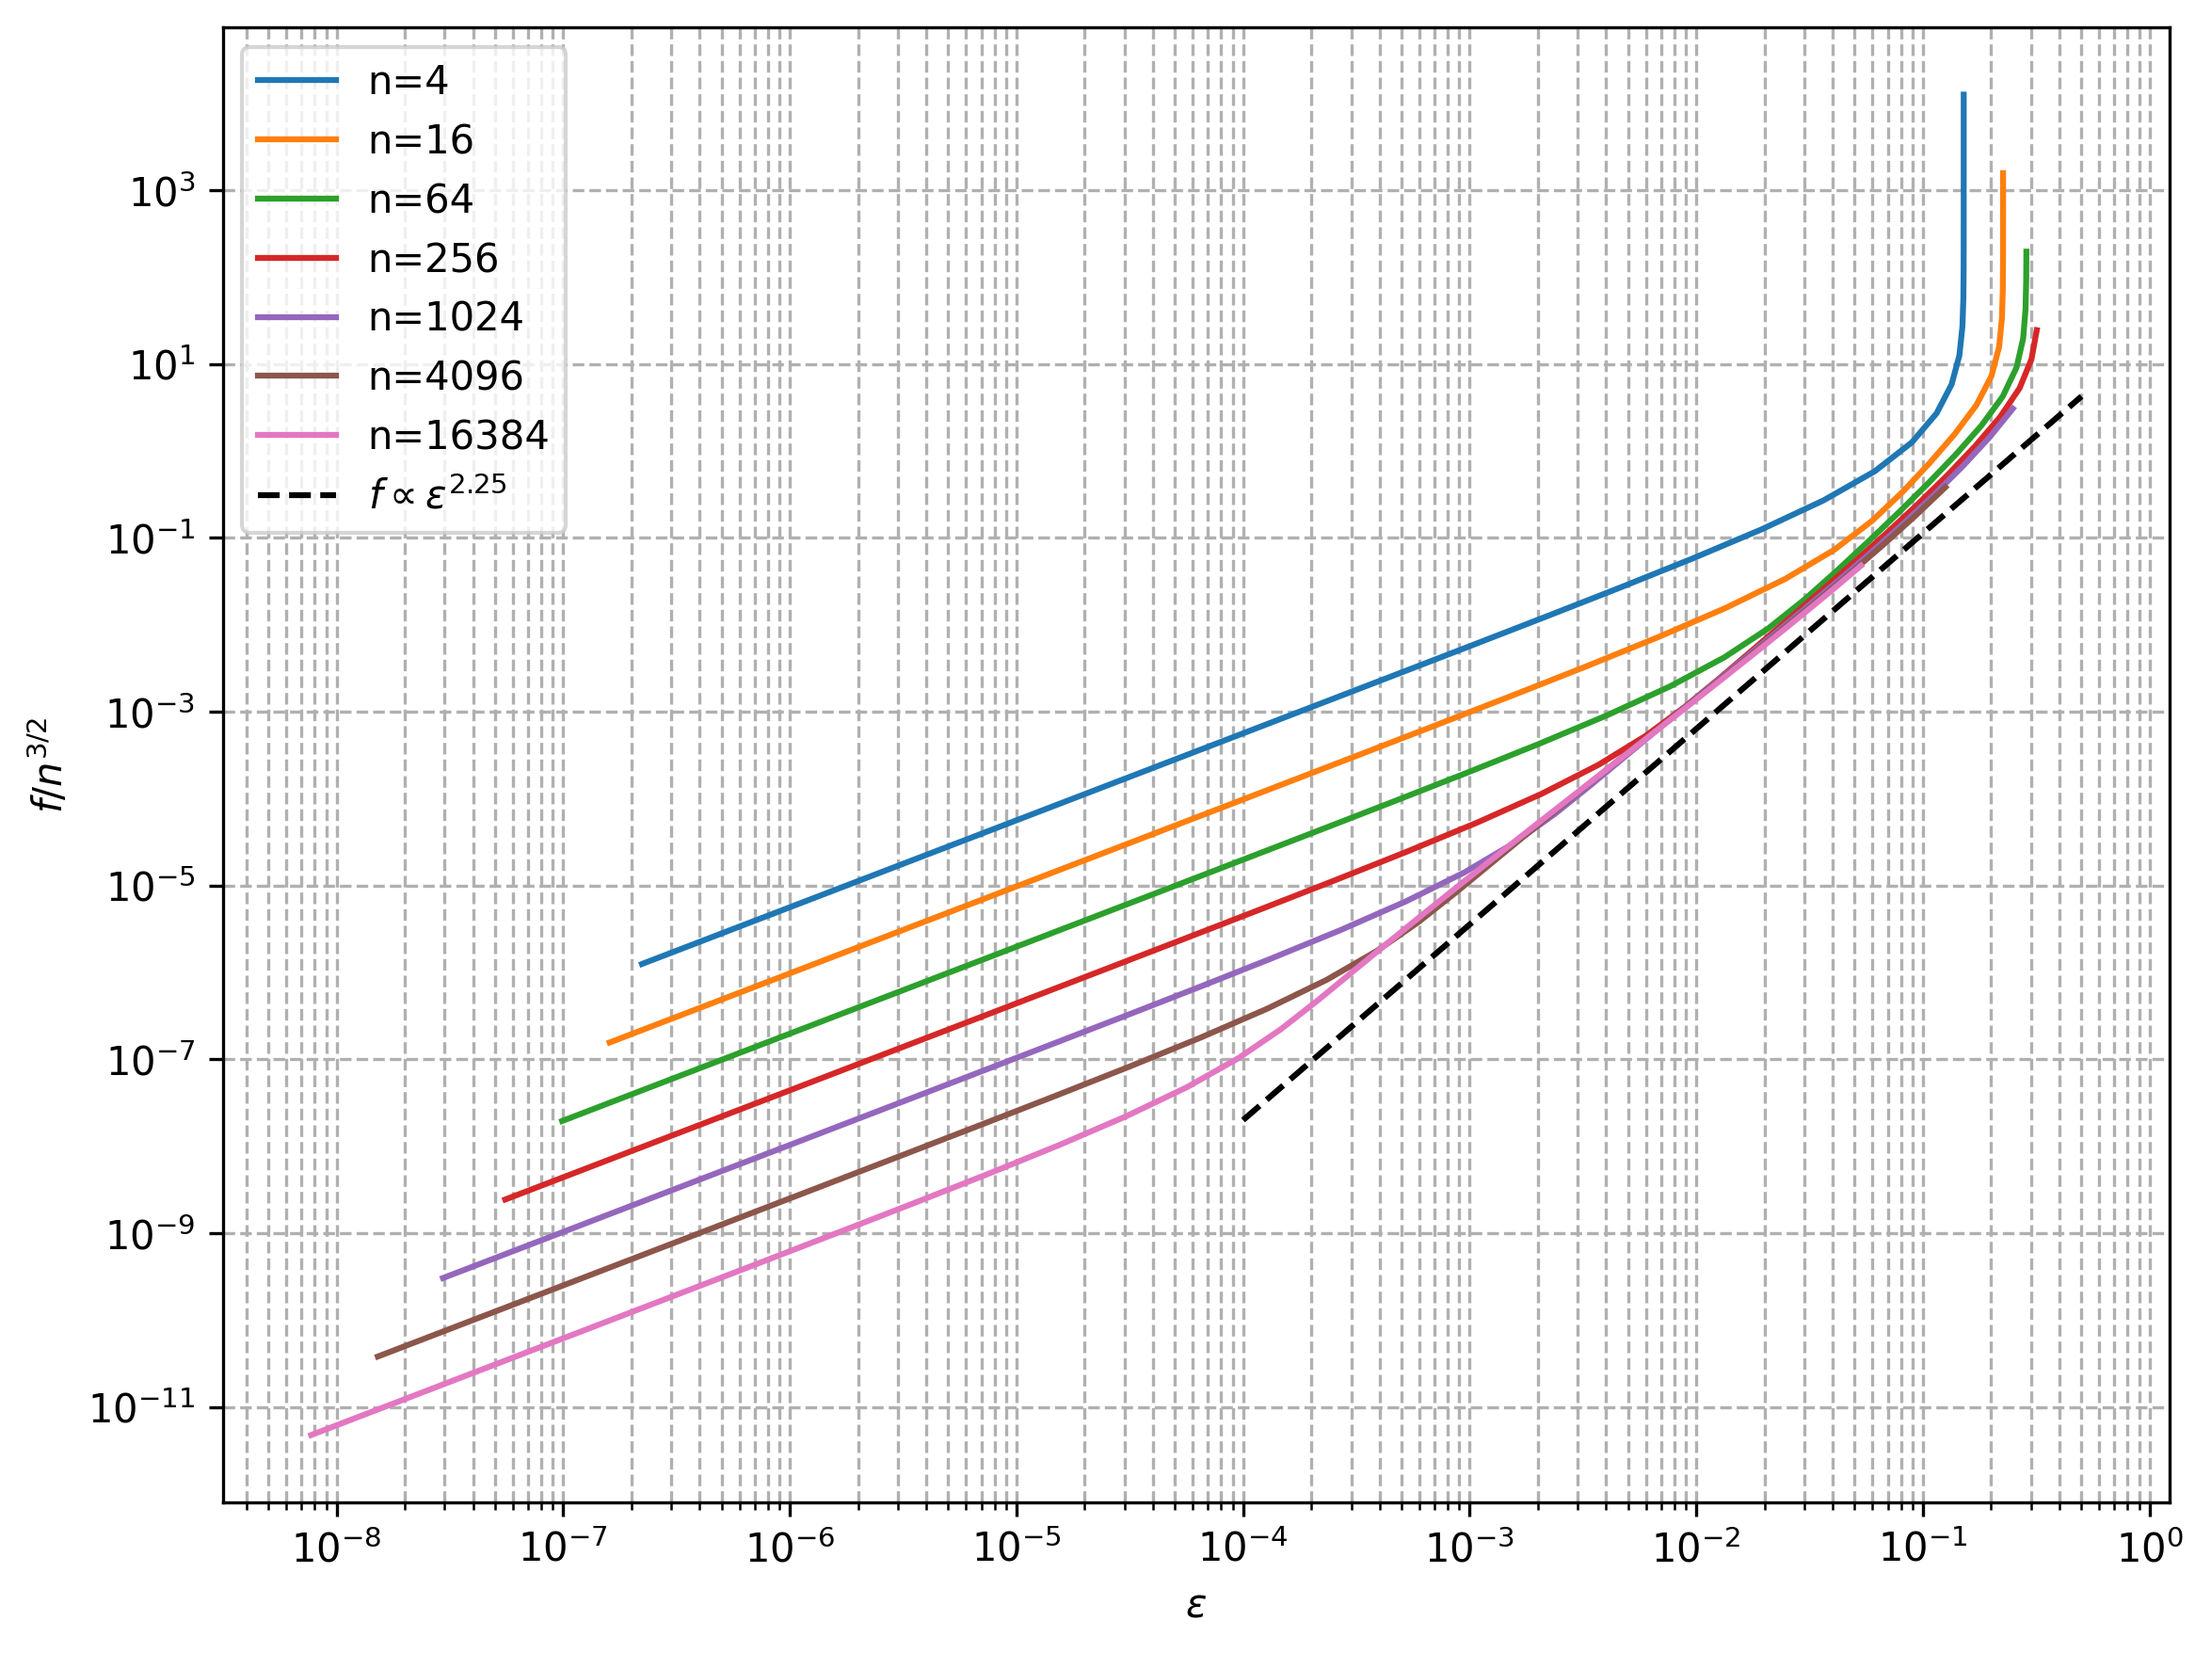
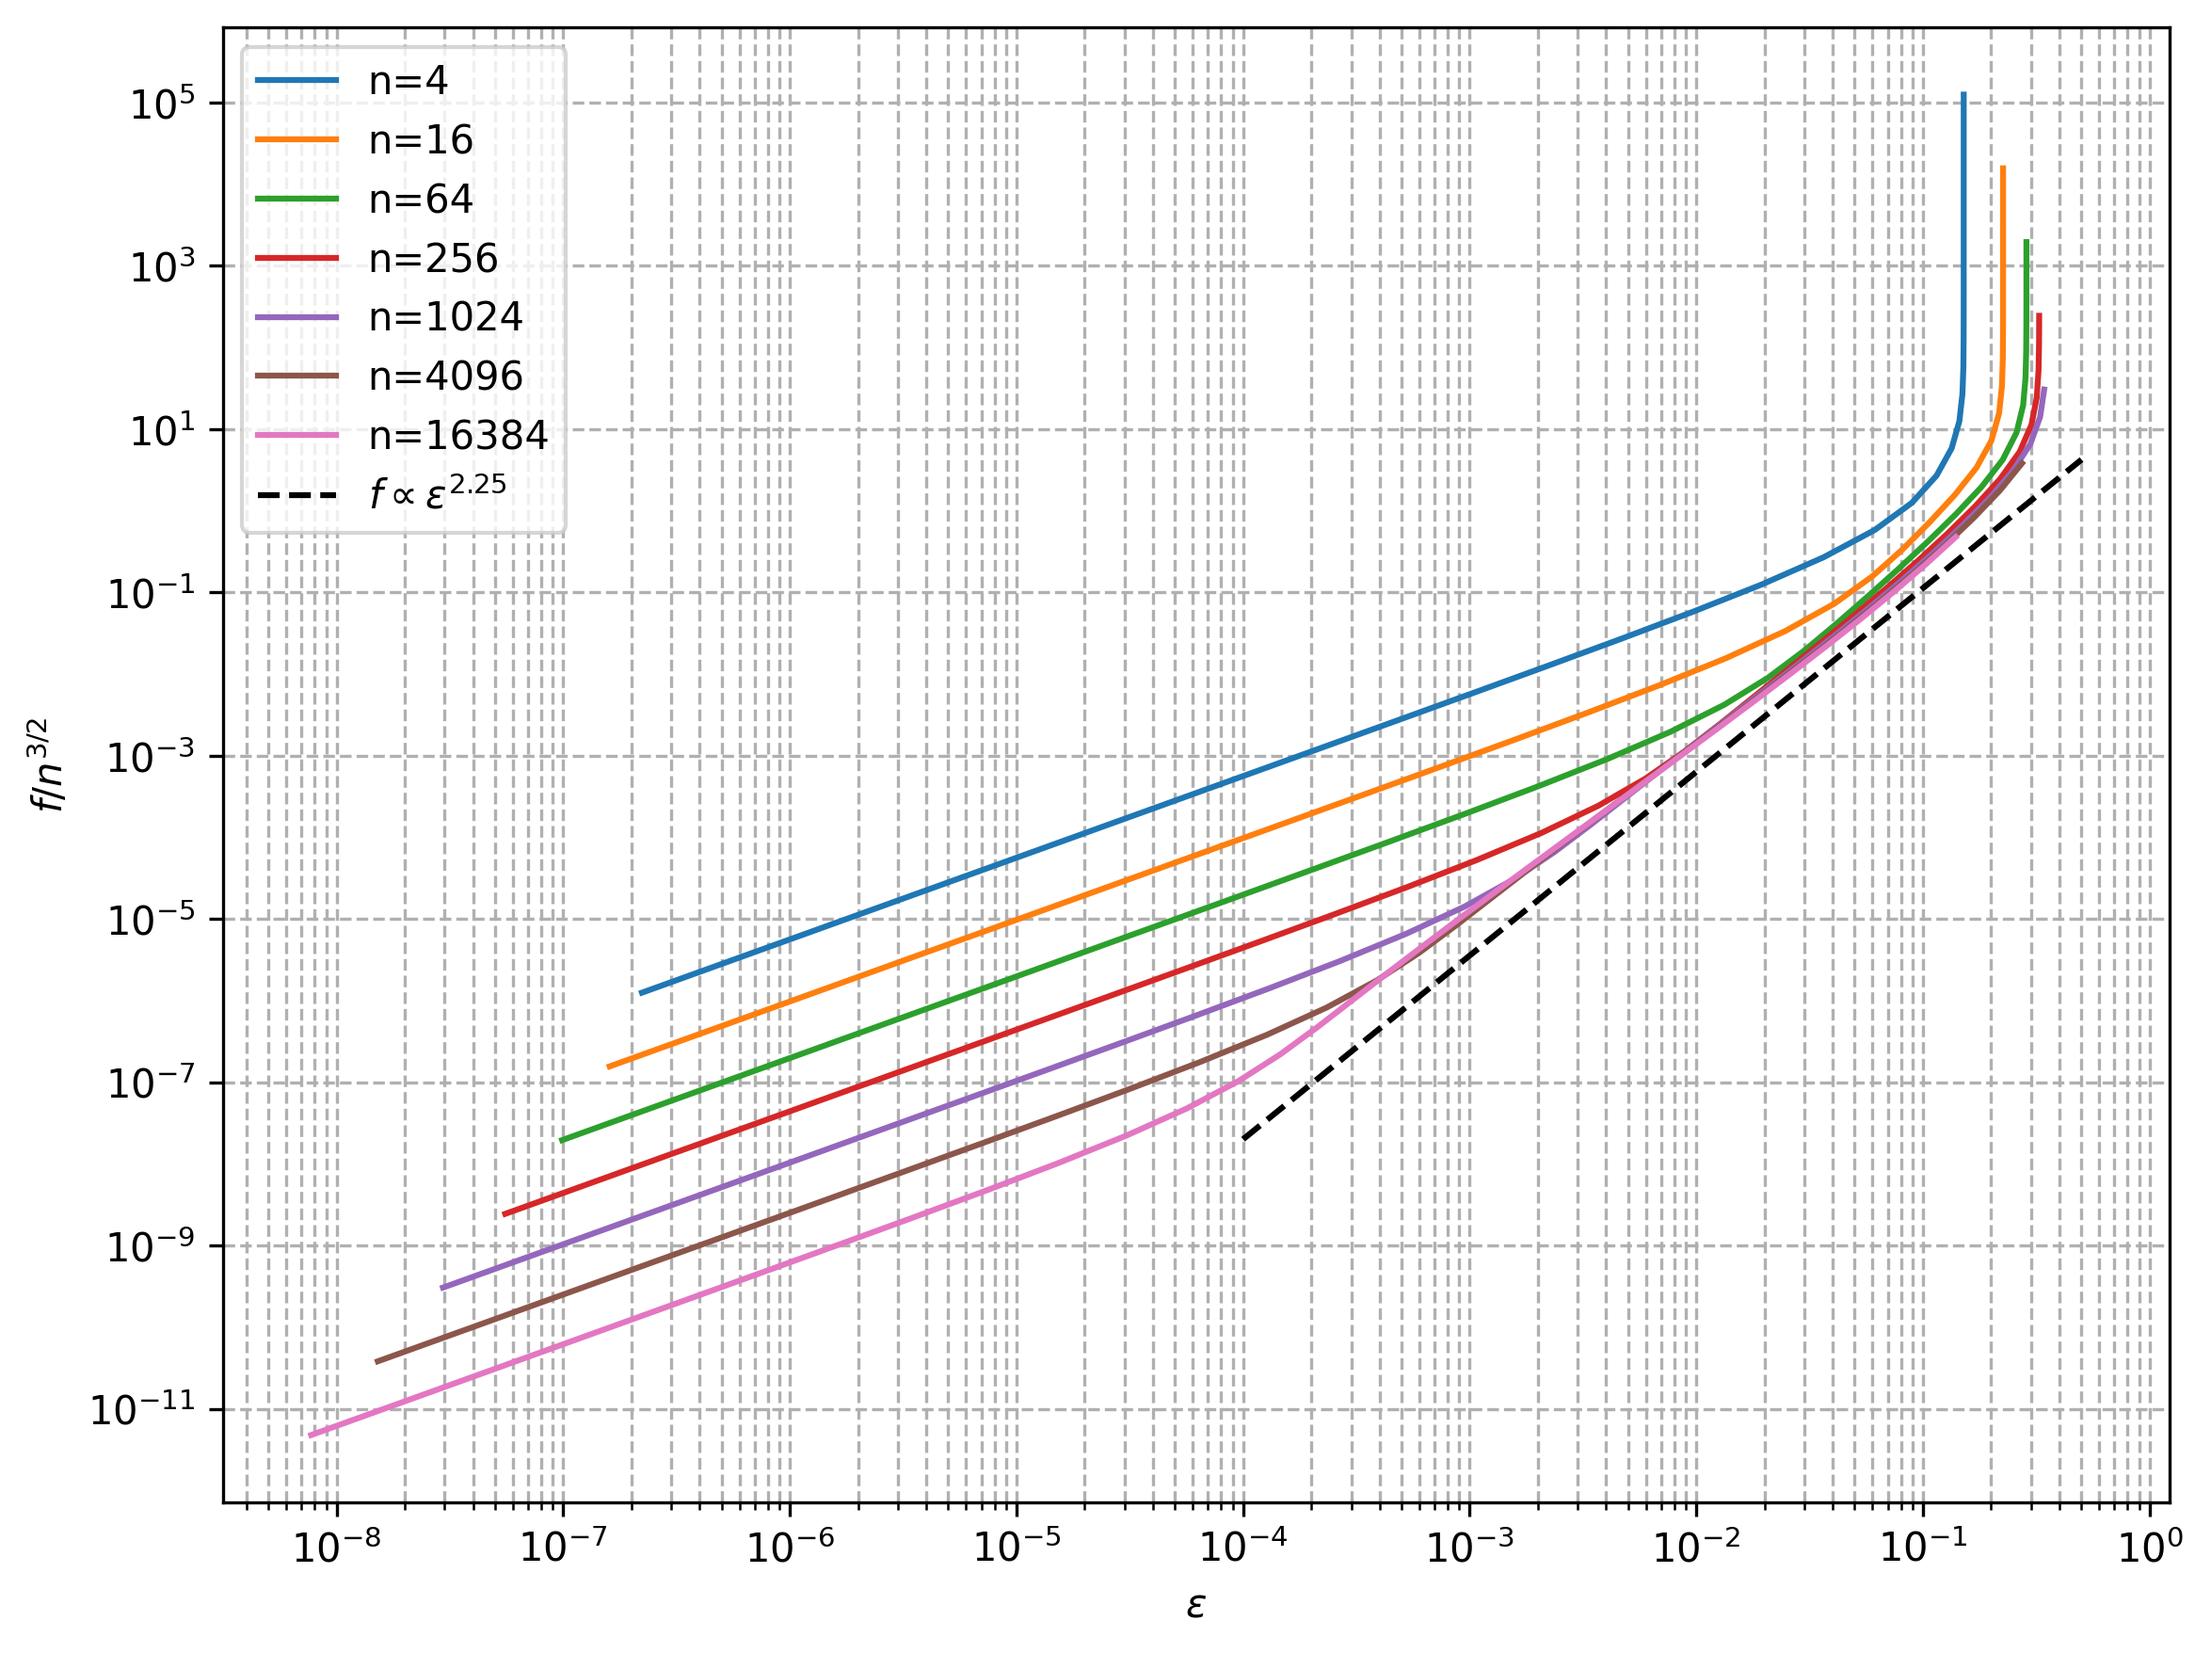
new picture

diff --git a/src/nlevel/main.py b/src/nlevel/main.py
@@ -89,7 +89,7 @@ if __name__ == "__main__":
     for n in options.sizes:
 
         x_min = -5
-        x_max = 5
+        x_max = 6
         number_of_points = int((x_max - x_min)*3 + 1)
         lambda_values = np.logspace(x_min, x_max, number_of_points)
 
